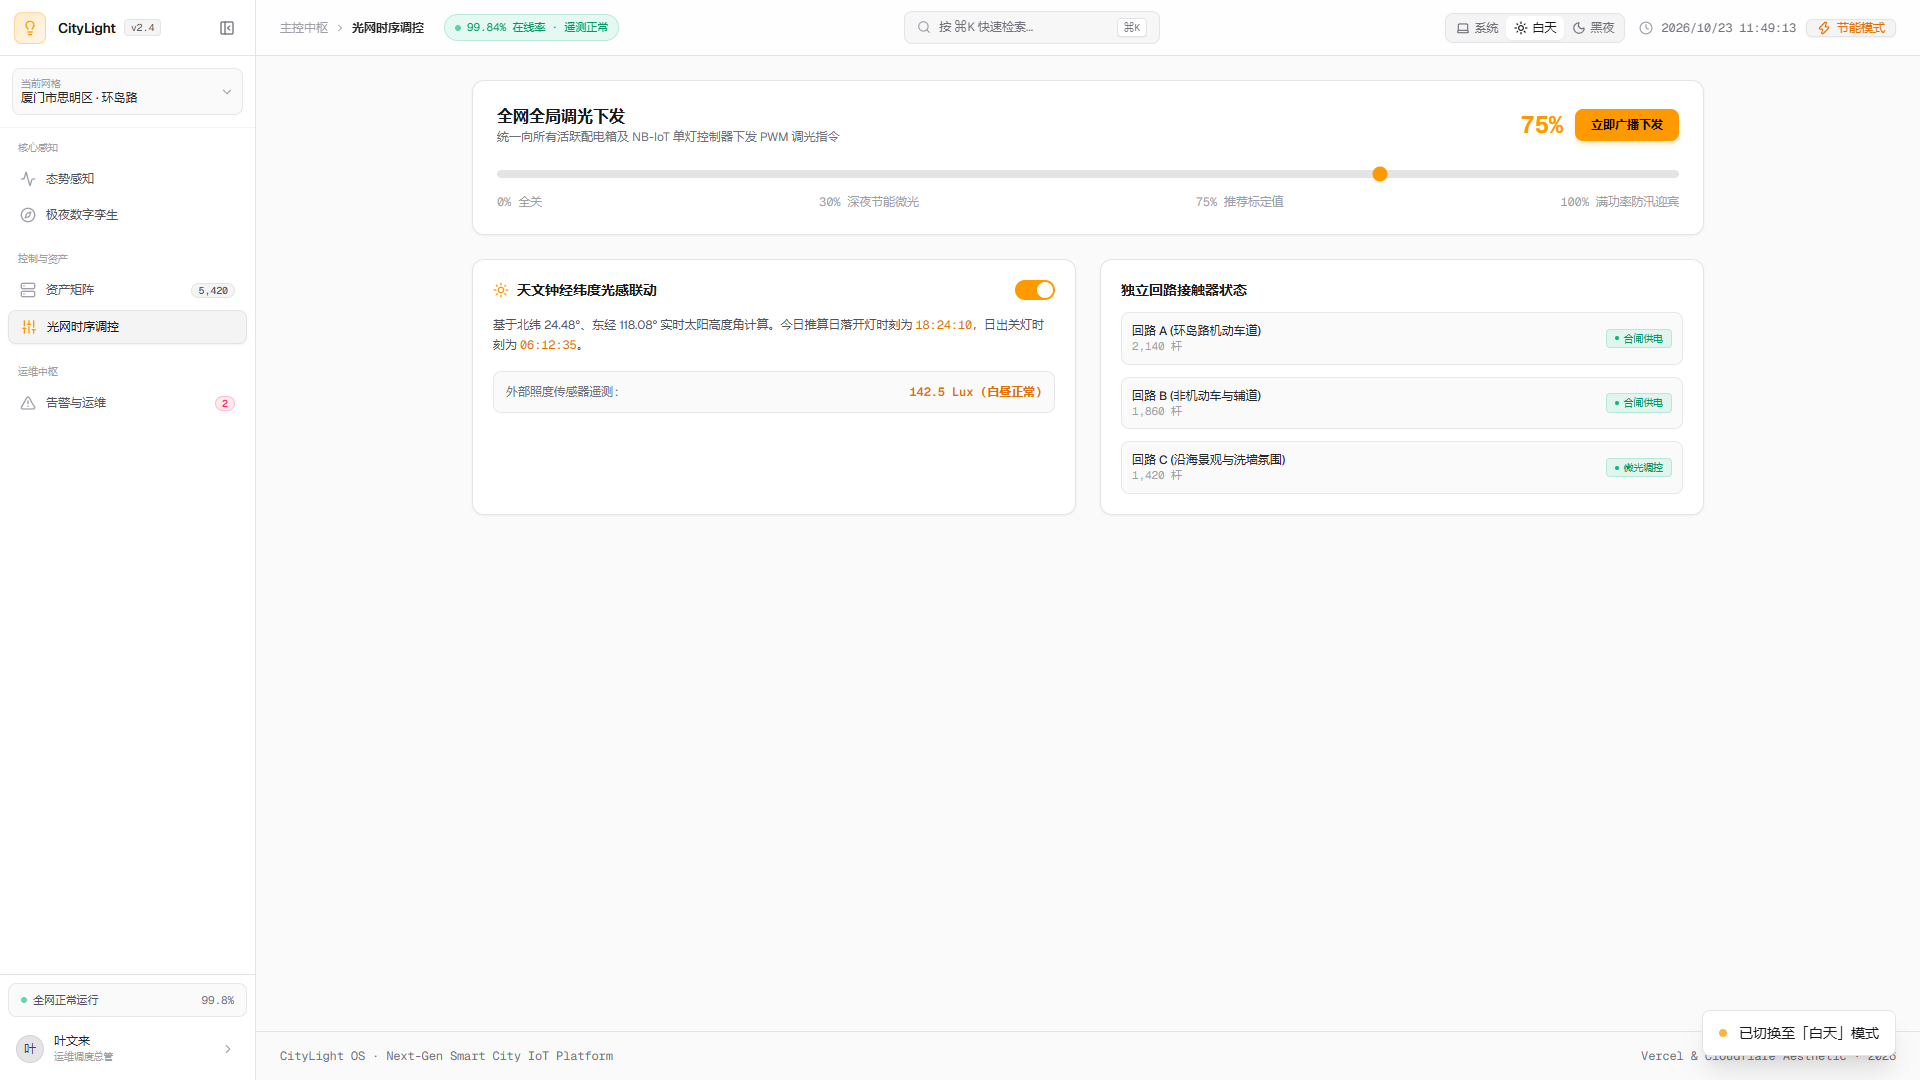
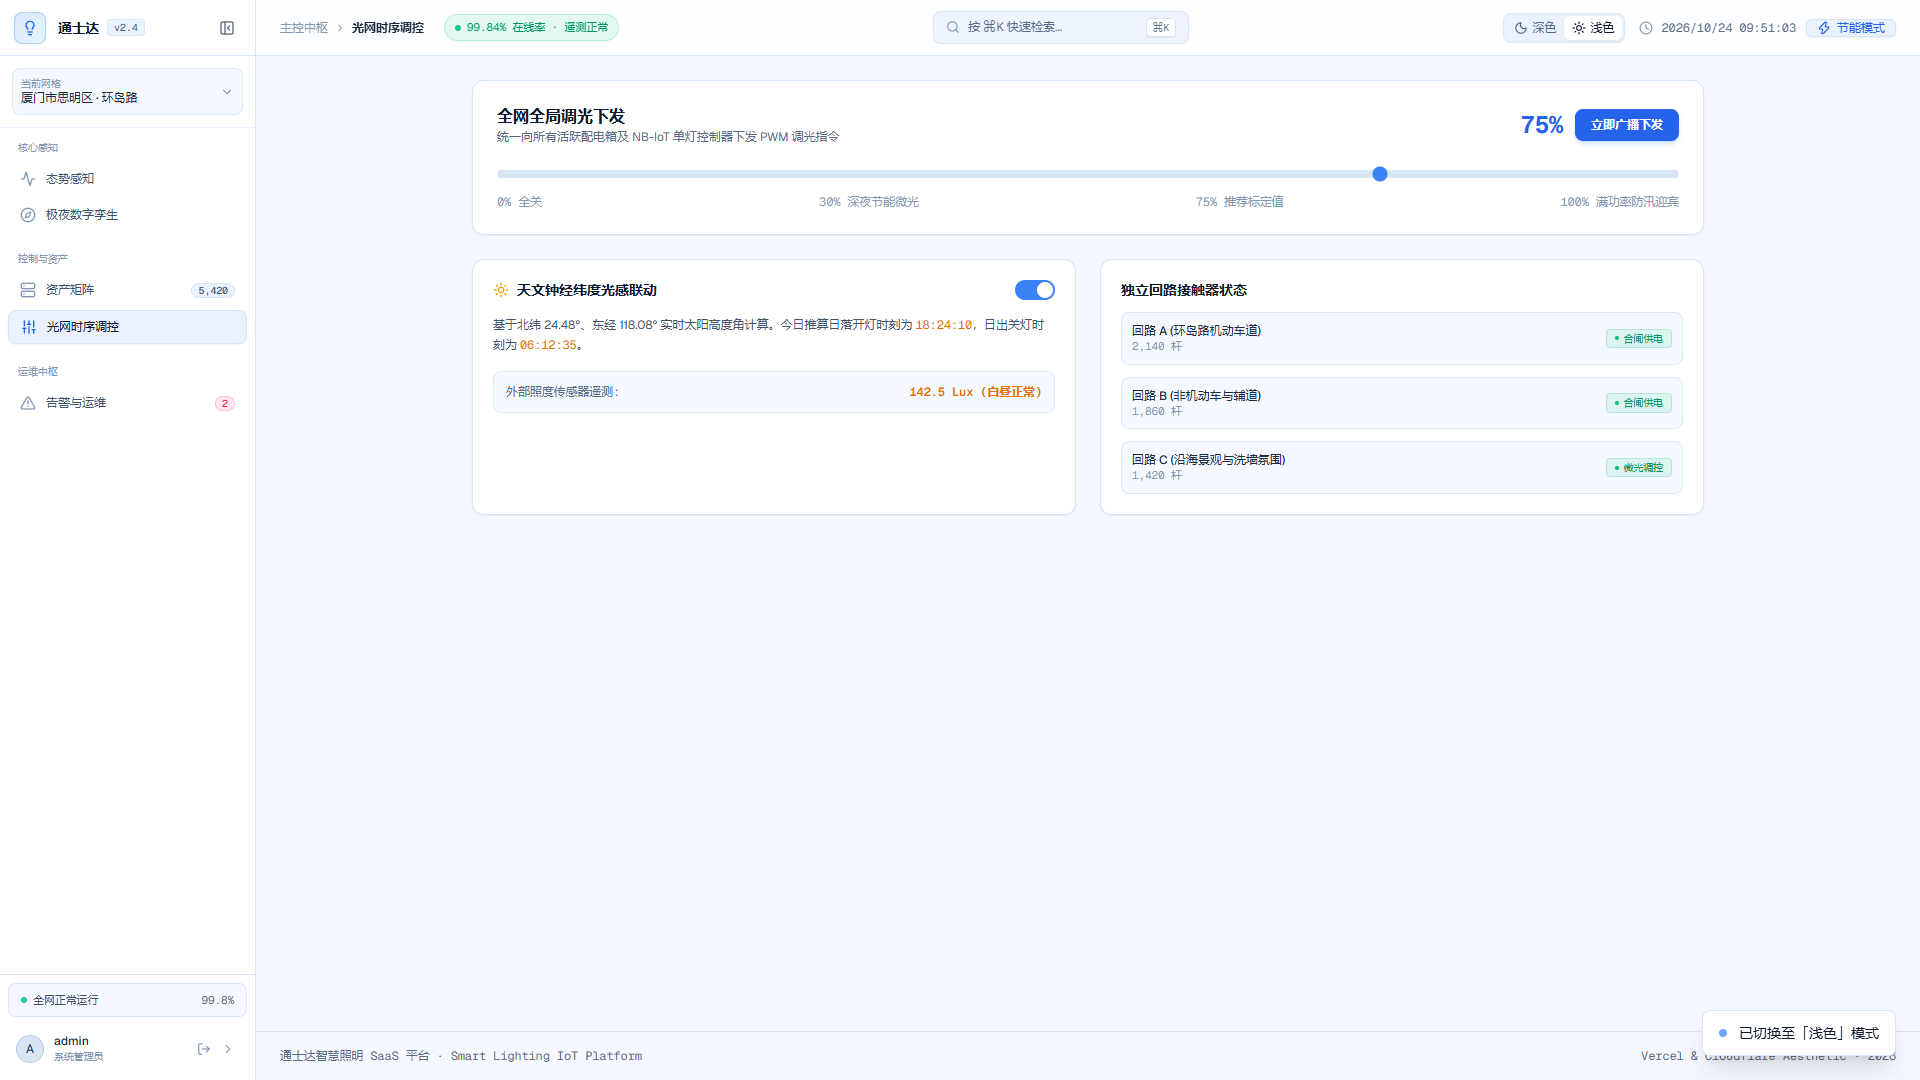
chore: add reproducible release archive tooling

diff --git a/scripts/package_release.py b/scripts/package_release.py
@@ -1,0 +1,153 @@
+#!/usr/bin/env python3
+"""Build and package the latest Topstar Smart Lighting SaaS frontend release."""
+
+from __future__ import annotations
+
+import argparse
+import os
+import subprocess
+import sys
+import zipfile
+from datetime import datetime
+from pathlib import Path
+
+
+REPO_ROOT = Path(__file__).resolve().parents[1]
+MOCK_DIR = REPO_ROOT / "mock"
+DEFAULT_OUTPUT_DIR = REPO_ROOT / "archive"
+RELEASE_INFO_NAME = "RELEASE_INFO.txt"
+
+EXCLUDED_DIRS = {
+    ".git",
+    ".idea",
+    ".vscode",
+    ".venv",
+    ".vite",
+    ".cache",
+    "__pycache__",
+    "node_modules",
+}
+EXCLUDED_SUFFIXES = {".pyc", ".pyo"}
+EXCLUDED_NAMES = {".DS_Store", "Thumbs.db"}
+
+
+def run(command: list[str], cwd: Path) -> None:
+    print(f"[run] {' '.join(command)}")
+    subprocess.run(command, cwd=cwd, check=True)
+
+
+def git_output(*args: str) -> str:
+    return subprocess.check_output(
+        ["git", *args],
+        cwd=REPO_ROOT,
+        text=True,
+        encoding="utf-8",
+    ).strip()
+
+
+def is_excluded(relative_path: Path) -> bool:
+    if any(part in EXCLUDED_DIRS for part in relative_path.parts):
+        return True
+    if relative_path.suffix.lower() in EXCLUDED_SUFFIXES:
+        return True
+    return relative_path.name in EXCLUDED_NAMES
+
+
+def add_tree_to_zip(archive: zipfile.ZipFile, source_dir: Path) -> int:
+    file_count = 0
+    for path in sorted(source_dir.rglob("*")):
+        relative_path = path.relative_to(source_dir)
+        if is_excluded(relative_path):
+            continue
+        if path.is_symlink():
+            print(f"[skip] symlink: {relative_path}")
+            continue
+        if path.is_dir():
+            continue
+        archive.write(path, relative_path.as_posix())
+        file_count += 1
+    return file_count
+
+
+def parse_args() -> argparse.Namespace:
+    parser = argparse.ArgumentParser(
+        description="Build and create a versioned source archive.",
+    )
+    parser.add_argument(
+        "--output-dir",
+        type=Path,
+        default=DEFAULT_OUTPUT_DIR,
+        help="Archive output directory (default: <repo>/archive).",
+    )
+    parser.add_argument(
+        "--skip-build",
+        action="store_true",
+        help="Reuse the existing mock/dist build output.",
+    )
+    parser.add_argument(
+        "--allow-dirty",
+        action="store_true",
+        help="Allow packaging when tracked files have uncommitted changes.",
+    )
+    return parser.parse_args()
+
+
+def main() -> int:
+    args = parse_args()
+    output_dir = args.output_dir.resolve()
+
+    dirty_files = git_output("status", "--porcelain", "--untracked-files=no")
+    if dirty_files and not args.allow_dirty:
+        print("Tracked files have uncommitted changes:", file=sys.stderr)
+        print(dirty_files, file=sys.stderr)
+        print("Commit them first or pass --allow-dirty.", file=sys.stderr)
+        return 2
+
+    if not args.skip_build:
+        run(["bun", "run", "build"], MOCK_DIR)
+
+    commit = git_output("rev-parse", "HEAD")
+    short_commit = git_output("rev-parse", "--short=8", "HEAD")
+    branch = git_output("branch", "--show-current") or "detached"
+    remote = git_output("remote", "get-url", "origin")
+    generated_at = datetime.now().astimezone()
+    timestamp = generated_at.strftime("%Y%m%d-%H%M%S")
+    output_dir.mkdir(parents=True, exist_ok=True)
+
+    archive_name = (
+        "TOPSTAR_通士达智慧照明SaaS平台_前端源码与截图展示包_"
+        f"{short_commit}_{timestamp}.zip"
+    )
+    archive_path = output_dir / archive_name
+
+    release_info = os.linesep.join(
+        [
+            "通士达智慧照明SaaS平台",
+            f"Generated At: {generated_at.isoformat(timespec='seconds')}",
+            f"Commit: {commit}",
+            f"Short Commit: {short_commit}",
+            f"Branch: {branch}",
+            f"Repository: {remote.removesuffix('.git')}",
+            "Contents: mock frontend source, dist build, screenshots, and helper scripts",
+            "",
+        ]
+    )
+
+    with zipfile.ZipFile(
+        archive_path,
+        mode="w",
+        compression=zipfile.ZIP_DEFLATED,
+        compresslevel=9,
+    ) as archive:
+        archive.writestr(RELEASE_INFO_NAME, release_info.encode("utf-8"))
+        file_count = add_tree_to_zip(archive, MOCK_DIR)
+
+    size_mb = archive_path.stat().st_size / (1024 * 1024)
+    print(f"\nArchive created: {archive_path}")
+    print(f"Commit: {commit}")
+    print(f"Files: {file_count}, Size: {size_mb:.2f} MiB")
+    return 0
+
+
+if __name__ == "__main__":
+    raise SystemExit(main())

diff --git a/mock/scripts/01_capture_theme_screenshots.py b/mock/scripts/01_capture_theme_screenshots.py
@@ -29,6 +29,7 @@ server_thread.start()
 time.sleep(1)
 
 TARGET_URL = f"http://localhost:{PORT}/index.html"
+AUTH_SESSION_JS = "JSON.stringify({ username: 'admin', authenticatedAt: Date.now() })"
 print(f"Local static server running at: {TARGET_URL}")
 print(f"Output screenshots directory: {SCREENSHOTS_DIR}")
 
@@ -67,15 +68,34 @@ with sync_playwright() as p:
 
     print(f"Loading page: {TARGET_URL}...")
     page.goto(TARGET_URL, wait_until="networkidle")
+    page.evaluate("localStorage.removeItem('topstar_auth'); localStorage.removeItem('topstar_auth_session'); localStorage.removeItem('topstar_theme'); location.reload()")
+    page.wait_for_load_state("networkidle")
     time.sleep(1)
 
     # Function to set theme
     def set_theme(theme: str):
         if theme == "white":
-            page.locator("button[title='白天模式']").first.click()
+            page.locator("button[title='浅色模式'], button[title='浅色']").first.click()
         elif theme == "dark":
-            page.locator("button[title='黑夜模式']").first.click()
+            page.locator("button[title='深色模式'], button[title='深色']").first.click()
         time.sleep(0.5)
+
+    # 0. Capture the login page in both themes
+    print("\n[Page] 登录页 (00_login)")
+    login_dark = os.path.join(SCREENSHOTS_DIR, "00_login_dark.png")
+    page.screenshot(path=login_dark)
+    print(f"  ✓ Saved: {os.path.basename(login_dark)}")
+
+    set_theme("white")
+    login_white = os.path.join(SCREENSHOTS_DIR, "00_login_white.png")
+    page.screenshot(path=login_white)
+    print(f"  ✓ Saved: {os.path.basename(login_white)}")
+
+    # Inject the mock session so the dashboard can be captured.
+    page.evaluate(f"localStorage.setItem('topstar_auth', {AUTH_SESSION_JS}); localStorage.setItem('topstar_theme', 'dark'); location.reload()")
+    page.wait_for_load_state("networkidle")
+    page.locator("button:has-text('态势感知')").first.wait_for()
+    time.sleep(0.8)
 
     # 1. Capture the 5 main pages in both White and Dark
     for cfg in PAGES_CONFIG:
@@ -141,4 +161,4 @@ with sync_playwright() as p:
 
     browser.close()
 
-print("\n🎉 All 7 pairs of screenshots (14 images total) have been captured successfully!")
+print("\n🎉 All 8 pairs of screenshots (16 images total) have been captured successfully!")

diff --git a/README.md b/README.md
@@ -38,3 +38,23 @@ bun run dev --host 127.0.0.1
 cd mock
 bun run build
 ```
+
+## 生成发布包
+
+默认会构建最新前端，并输出带 commit hash 和时间戳的 ZIP：
+
+```bash
+uv run python scripts/package_release.py
+```
+
+发布包输出到 `archive/`，该目录不会提交到 Git。复用已有构建时可使用：
+
+```bash
+uv run python scripts/package_release.py --skip-build
+```
+
+如需更新界面截图，先单独运行：
+
+```bash
+uv run --with playwright python mock/scripts/01_capture_theme_screenshots.py
+```
